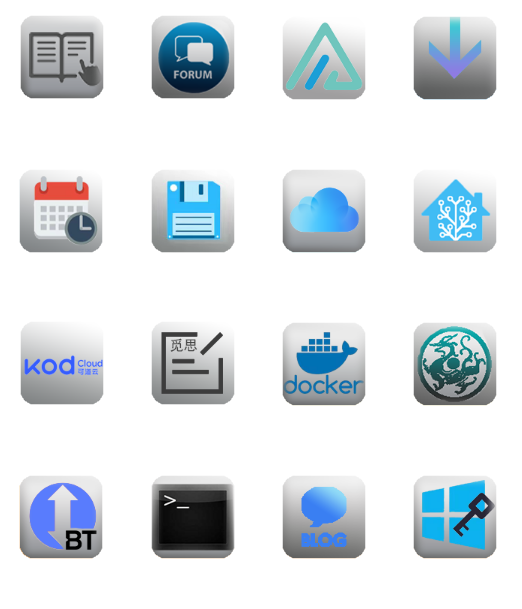
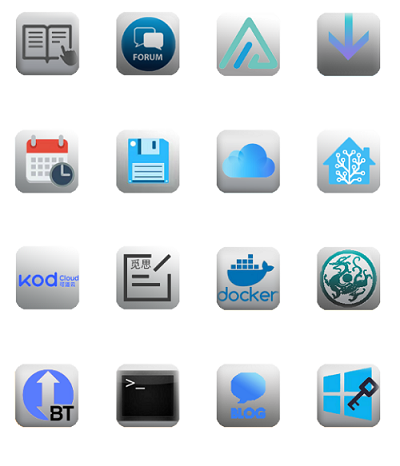
update

diff --git a/src/pages/index.js b/src/pages/index.js
@@ -55,7 +55,7 @@ function PolicyPersistence() {
             </p>
           </div>
           <div style={{marginInline: "auto"}}>
-            <img src="img/about.png" alt="Policy Persistence" width="300" height="500" />
+            <img src="img/about.png" alt="Policy Persistence" width="400" height="466" />
           </div>
         </div>
       </div>
